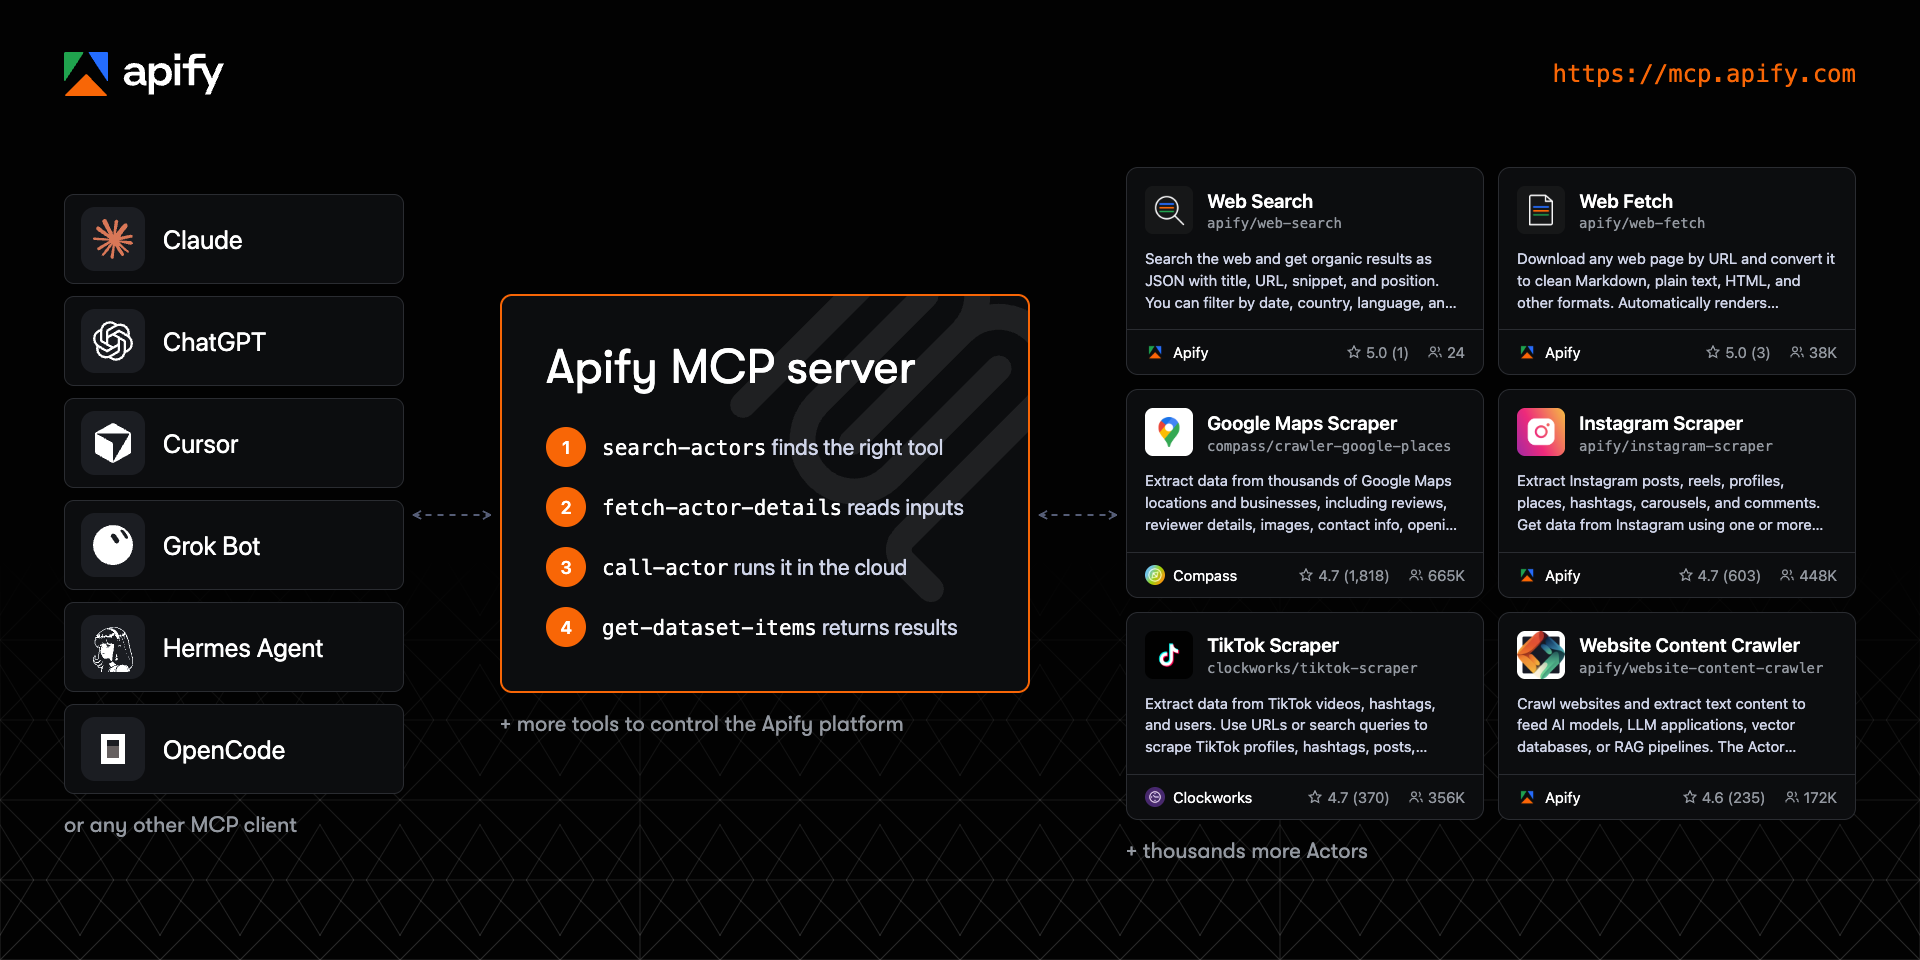
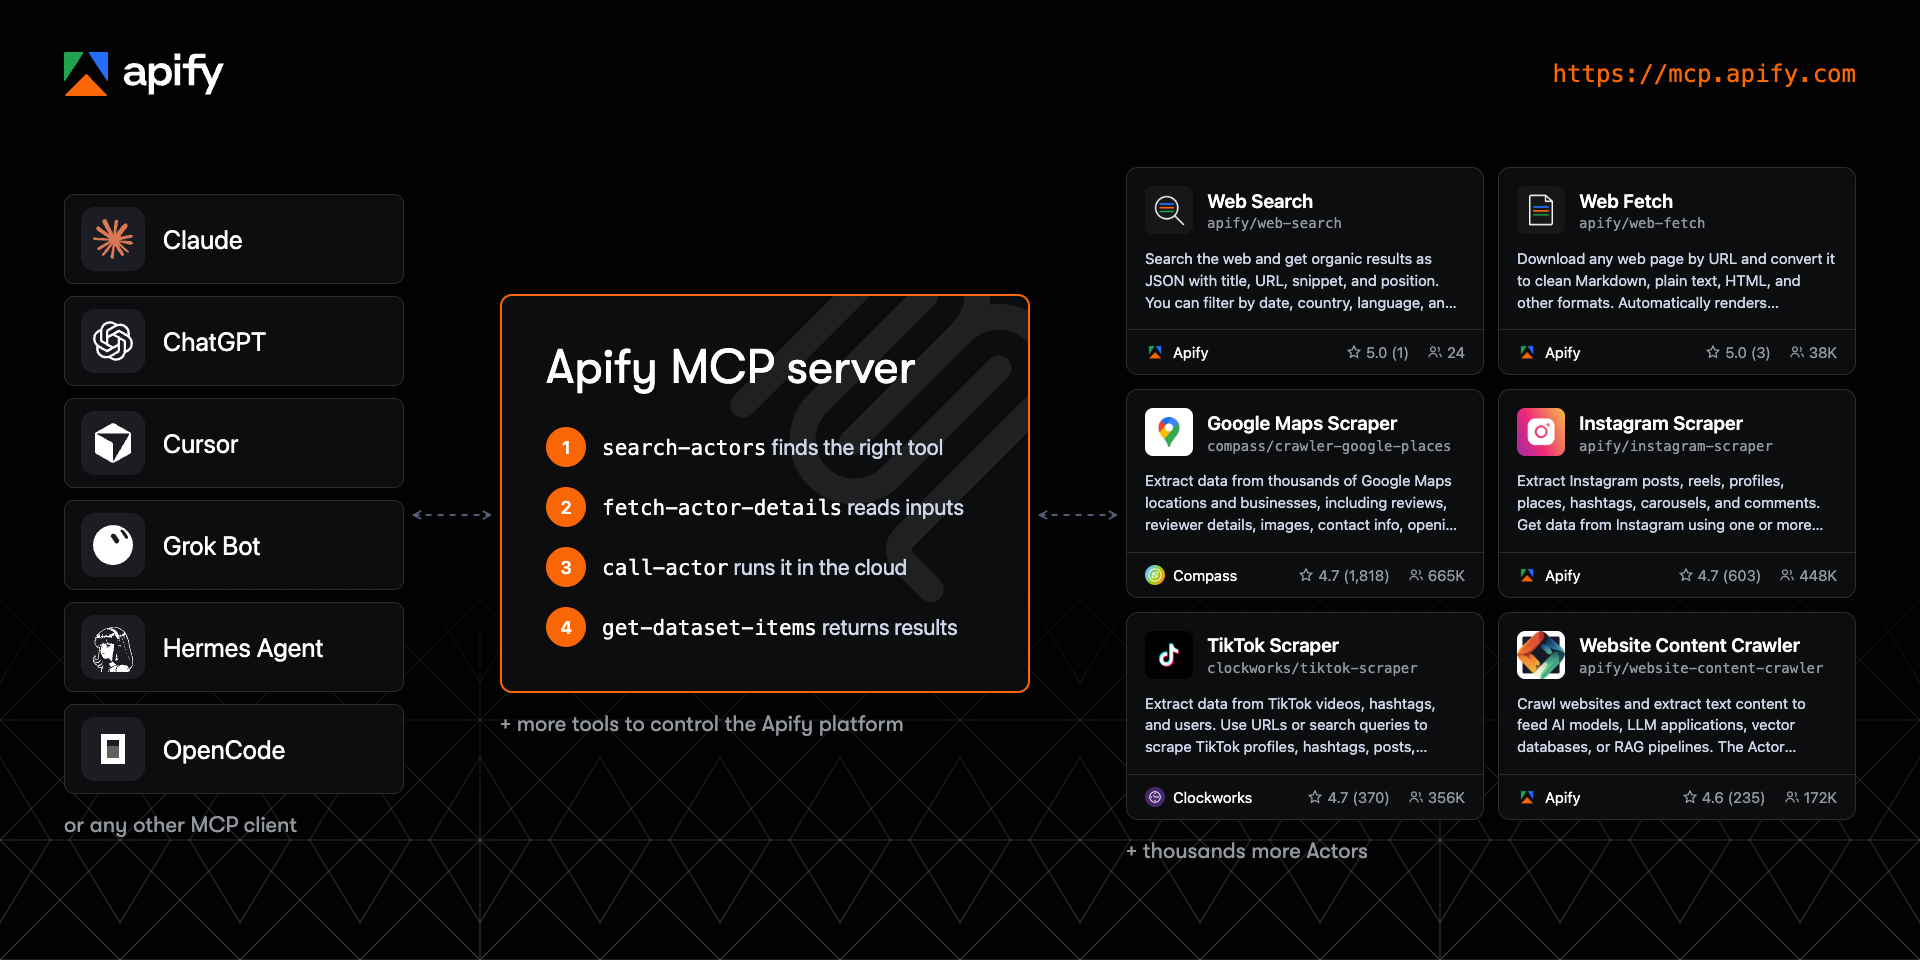
docs: Add README header image and enlarge diagram grid

diff --git a/README.md b/README.md
@@ -1,12 +1,8 @@
 <p align="center">
     <a href="https://mcp.apify.com">
-        <picture>
-            <source media="(prefers-color-scheme: dark)" srcset="https://raw.githubusercontent.com/apify/apify-mcp-server/refs/heads/master/docs/apify_mcp_server_dark_background.png">
-            <img alt="Apify MCP server logo" src="https://raw.githubusercontent.com/apify/apify-mcp-server/refs/heads/master/docs/apify_mcp_server_white_background.png" width="500">
-        </picture>
+        <img alt="Apify MCP server" src="docs/apify-mcp-server-header.png" width="100%">
     </a>
 </p>
-
 <p align="center">
     <a href="https://www.npmjs.com/package/@apify/actors-mcp-server"><img src="https://img.shields.io/npm/v/@apify/actors-mcp-server.svg" alt="npm version"></a>
     <a href="https://www.npmjs.com/package/@apify/actors-mcp-server"><img src="https://img.shields.io/npm/dm/@apify/actors-mcp-server.svg" alt="npm downloads"></a>
